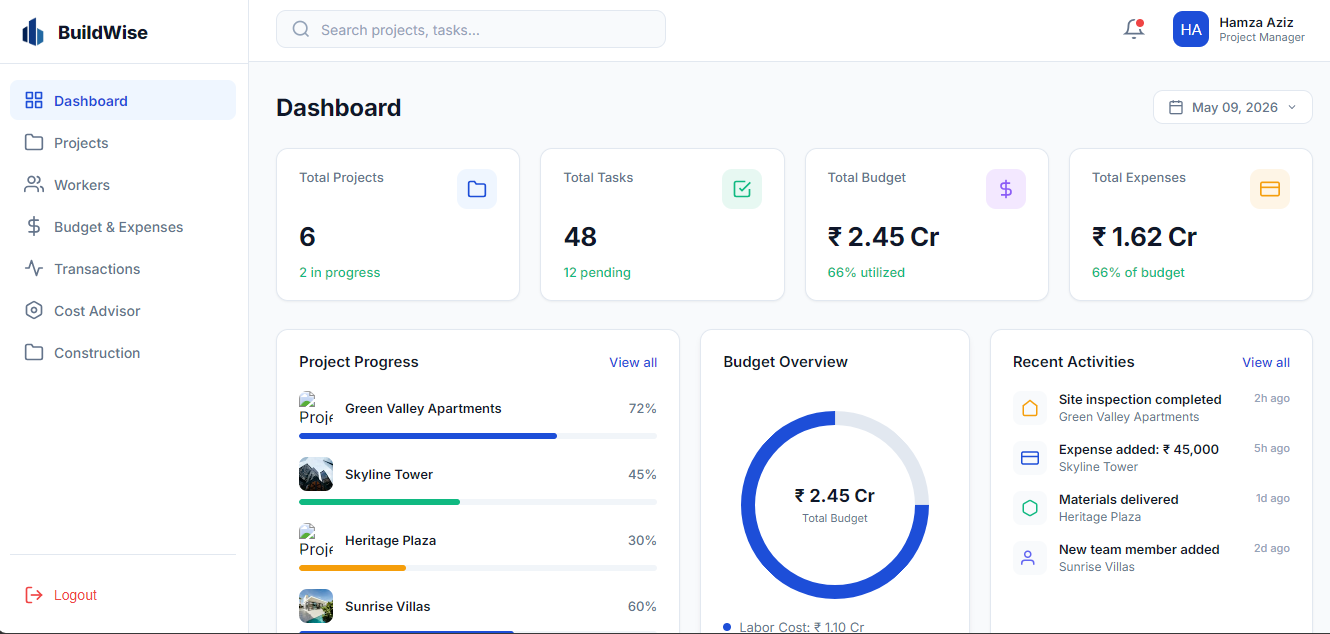
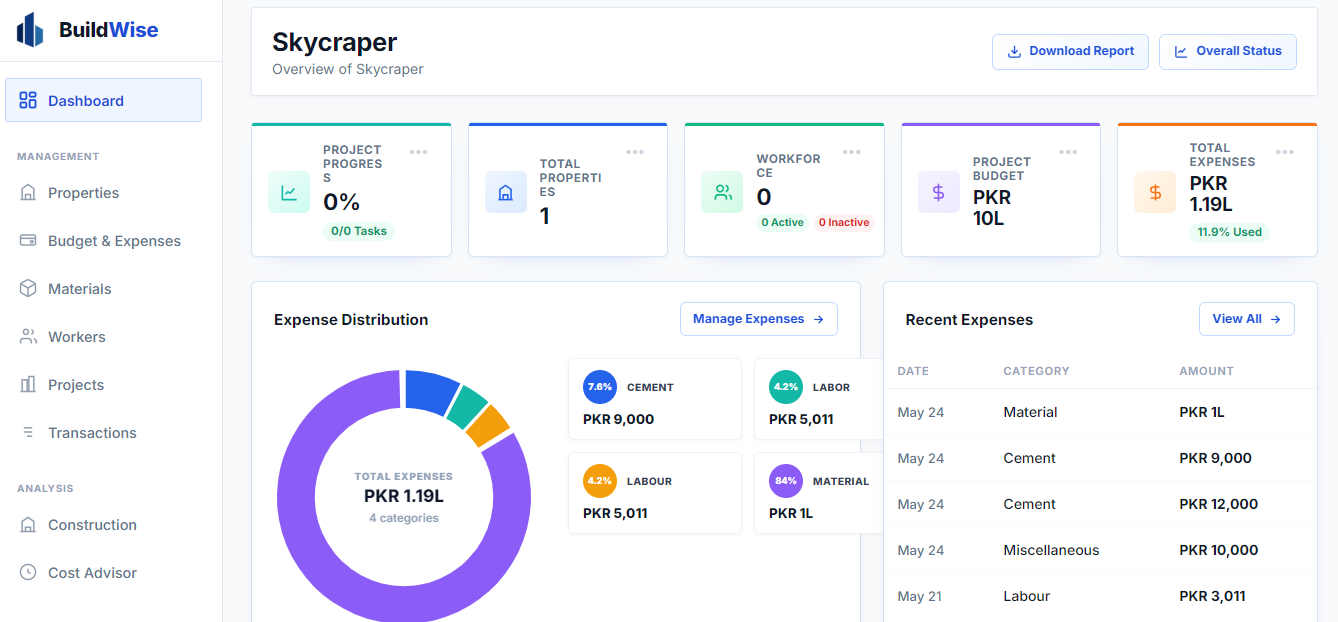
Made some design changes

diff --git a/wwwroot/assets/css/style.css b/wwwroot/assets/css/style.css
@@ -445,31 +445,33 @@ footer {
 }
 
 
-.feat-hero { padding: 120px 24px 80px; text-align: center; background: #f8faff; }
-.feat-hero .hero-inner { max-width: 900px; margin: 0 auto; }
-.feat-hero .hero-eyebrow { display: inline-block; font-size: 11px; font-weight: 800; letter-spacing: 1.5px; color: #1D4ED8; text-transform: uppercase; margin-bottom: 24px; background: #EFF6FF; padding: 8px 24px; border-radius: 100px; border: 1px solid rgba(29,78,216,0.1); }
-.feat-hero h1 { font-size: clamp(32px, 6vw, 64px); font-weight: 900; color: #0f172a; letter-spacing: -2px; line-height: 1.05; margin-bottom: 24px; max-width: 800px; margin-left: auto; margin-right: auto; }
-.feat-hero p { font-size: clamp(16px, 2vw, 19px); color: #64748b; line-height: 1.7; max-width: 600px; margin: 0 auto 40px; }
+.feat-hero { padding: 100px 24px 72px; text-align: center; background: #fff; position: relative; overflow: hidden; }
+.feat-hero .hero-inner { max-width: 1200px; margin: 0 auto; text-align: center; position: relative; z-index: 10; }
+.feat-hero .hero-eyebrow { margin-bottom: 0; }
+.feat-hero h1 { font-size: clamp(36px, 6vw, 60px); font-weight: 800; color: #0f172a; letter-spacing: -1.5px; line-height: 1.1; margin: 0 auto 24px; max-width: 850px; }
+.feat-hero p { font-size: 17px; color: #64748b; line-height: 1.6; max-width: 660px; margin: 0 auto 40px; font-weight: 400; }
 .hero-btns { display: flex; gap: 16px; justify-content: center; align-items: center; }
 .btn-hero-primary { background: #1D4ED8; color: #fff; padding: 16px 32px; border-radius: 12px; font-weight: 700; text-decoration: none; transition: background var(--transition-soft), transform var(--transition-soft), box-shadow var(--transition-soft); box-shadow: 0 4px 14px rgba(29,78,216,0.22); }
 .btn-hero-primary:hover { background: #1E40AF; transform: translateY(-1px); box-shadow: 0 10px 24px rgba(29,78,216,0.16); }
 .btn-hero-outline { background: #fff; color: #0f172a; border: 1px solid #e2e8f0; padding: 16px 32px; border-radius: 12px; font-weight: 700; text-decoration: none; display: flex; align-items: center; gap: 10px; transition: background var(--transition-soft), border-color var(--transition-soft), transform var(--transition-soft), box-shadow var(--transition-soft); }
 .btn-hero-outline:hover { background: #f8faff; border-color: #1D4ED8; transform: translateY(-1px); box-shadow: 0 10px 24px rgba(15,23,42,0.08); }
 .btn-hero-outline svg { color: #1D4ED8; }
-.feat-section { padding: 80px 24px; background: #EFF6FF; }
+.feat-section { padding: 80px 24px; background: #f8faff; }
 .feat-section + .feat-section { background: #fff; }
 .feat-section-inner { max-width: 1160px; margin: 0 auto; }
 .section-head { text-align: center; margin-bottom: 60px; }
 .section-head h2 { font-size: clamp(26px, 4vw, 40px); font-weight: 800; color: #0f172a; letter-spacing: -1px; margin-bottom: 14px; }
 .section-head p { font-size: 16px; color: #64748b; max-width: 560px; margin: 0 auto; line-height: 1.7; }
 .feat-grid { display: grid; grid-template-columns: repeat(3, 1fr); gap: 24px; }
-.feat-card { background: #fff; border: 1.5px solid #e2e8f0; border-radius: 8px; padding: 32px 28px; transition: box-shadow var(--transition-soft), transform var(--transition-soft), border-color var(--transition-soft), background var(--transition-soft); display: flex; flex-direction: column; min-height: 100%; }
-.feat-section + .feat-section .feat-card { background: #f8faff; }
-.feat-card:hover { box-shadow: 0 12px 30px rgba(15,37,87,0.09); transform: translateY(-2px); border-color: #1D4ED8; }
-.feat-card-icon { width: 52px; height: 52px; border-radius: 14px; background: #EFF6FF; display: flex; align-items: center; justify-content: center; margin-bottom: 20px; }
+.feat-card { width: 100%; background: #fff; border: none; border-top: 3px solid #1E3A8A; border-radius: 8px; box-shadow: 0 4px 24px rgba(30, 58, 138, 0.08); padding: 36px 28px; transition: transform var(--transition-soft), box-shadow var(--transition-soft), background var(--transition-soft), border-color var(--transition-soft); display: flex; flex-direction: column; min-height: 100%; position: relative; overflow: hidden; }
+.feat-section + .feat-section .feat-card { background: #fff; }
+.feat-card:hover { box-shadow: 0 12px 30px rgba(30, 58, 138, 0.10); transform: translateY(-3px); background: #F8FAFF; border-top-color: #1D4ED8; }
+.feat-card::after { content: ''; position: absolute; bottom: -15px; right: -15px; width: 70px; height: 70px; background: #1E3A8A; opacity: 0.04; border-radius: 50%; pointer-events: none; }
+.feat-card-icon { width: 56px; height: 56px; border-radius: 14px; background: #EFF6FF; display: flex; align-items: center; justify-content: center; margin-bottom: 20px; transition: background var(--transition-soft); }
+.feat-card:hover .feat-card-icon { background: linear-gradient(135deg, #DBEAFE, #BFDBFE); }
 .feat-card-icon svg { width: 24px; height: 24px; stroke: #1E40AF; fill: none; }
-.feat-card h3 { font-size: 18px; font-weight: 800; color: #0f172a; margin-bottom: 10px; letter-spacing: -0.3px; }
-.feat-card > p { font-size: 14px; color: #64748b; line-height: 1.75; margin-bottom: 20px; }
+.feat-card h3 { font-size: 20px; font-weight: 700; color: #0F172A; margin-bottom: 12px; letter-spacing: 0; line-height: 1.25; }
+.feat-card > p { font-size: 14.5px; color: #4B5563; line-height: 1.6; margin-bottom: 24px; }
 .feat-card-links { display: flex; flex-wrap: wrap; gap: 8px; margin-top: auto; }
 .feat-cta { background: linear-gradient(135deg, #0a1628 0%, #0F172A 60%, #1E40AF 100%); padding: 90px 24px; text-align: center; }
 .feat-cta h2 { font-size: clamp(26px, 5vw, 44px); font-weight: 800; color: #fff; letter-spacing: -1.5px; margin-bottom: 14px; }

diff --git a/wwwroot/assets/css/marketing-pages.css b/wwwroot/assets/css/marketing-pages.css
@@ -128,22 +128,83 @@ body {
 }
 .simple-info-card {
   background: #fff;
-  border: 1px solid #e2e8f0;
+  border: none;
+  border-top: 3px solid #1E3A8A;
   border-radius: 8px;
-  padding: 28px;
-  box-shadow: 0 8px 24px rgba(15,37,87,0.05);
+  padding: 36px 28px;
+  box-shadow: 0 4px 24px rgba(30, 58, 138, 0.08);
+  display: flex;
+  flex-direction: column;
+  min-height: 100%;
+  overflow: hidden;
+  position: relative;
+  transition: transform var(--transition-soft), box-shadow var(--transition-soft), background var(--transition-soft), border-color var(--transition-soft);
+}
+.simple-info-card:hover {
+  background: #F8FAFF;
+  border-top-color: #1D4ED8;
+  box-shadow: 0 12px 30px rgba(30, 58, 138, 0.10);
+  transform: translateY(-3px);
+}
+.simple-info-card::after {
+  content: '';
+  position: absolute;
+  bottom: -15px;
+  right: -15px;
+  width: 70px;
+  height: 70px;
+  background: #1E3A8A;
+  opacity: 0.04;
+  border-radius: 50%;
+  pointer-events: none;
+}
+.simple-card-icon {
+  width: 56px;
+  height: 56px;
+  border-radius: 14px;
+  background: #EFF6FF;
+  color: #1E40AF;
+  display: flex;
+  align-items: center;
+  justify-content: center;
+  margin-bottom: 20px;
+  transition: background var(--transition-soft);
+}
+.simple-info-card:hover .simple-card-icon {
+  background: linear-gradient(135deg, #DBEAFE, #BFDBFE);
+}
+.simple-card-icon svg {
+  width: 24px;
+  height: 24px;
 }
 .simple-info-card h2 {
-  font-size: 18px;
-  color: #0f172a;
-  margin: 0 0 10px;
-  font-weight: 800;
+  font-size: 20px;
+  color: #0F172A;
+  margin: 0 0 12px;
+  font-weight: 700;
+  line-height: 1.25;
 }
 .simple-info-card p {
-  font-size: 14px;
-  color: #64748b;
-  line-height: 1.75;
-  margin: 0;
+  font-size: 14.5px;
+  color: #4B5563;
+  line-height: 1.6;
+  margin: 0 0 24px;
+}
+.simple-info-tags {
+  display: flex;
+  flex-wrap: wrap;
+  gap: 8px;
+  margin-top: auto;
+  position: relative;
+  z-index: 1;
+}
+.simple-info-tags span {
+  background: #EFF6FF;
+  color: #1D4ED8;
+  padding: 6px 12px;
+  border-radius: 100px;
+  font-size: 12px;
+  font-weight: 600;
 }
 
 .dash-content.marketing-page-content .details-card { border-radius: 8px !important; }
@@ -252,6 +313,12 @@ body {
 
   .simple-info-card {
     padding: 22px;
+  }
+
+  .simple-card-icon {
+    width: 50px;
+    height: 50px;
+    margin-bottom: 16px;
   }
 
   .contact-wrapper {
